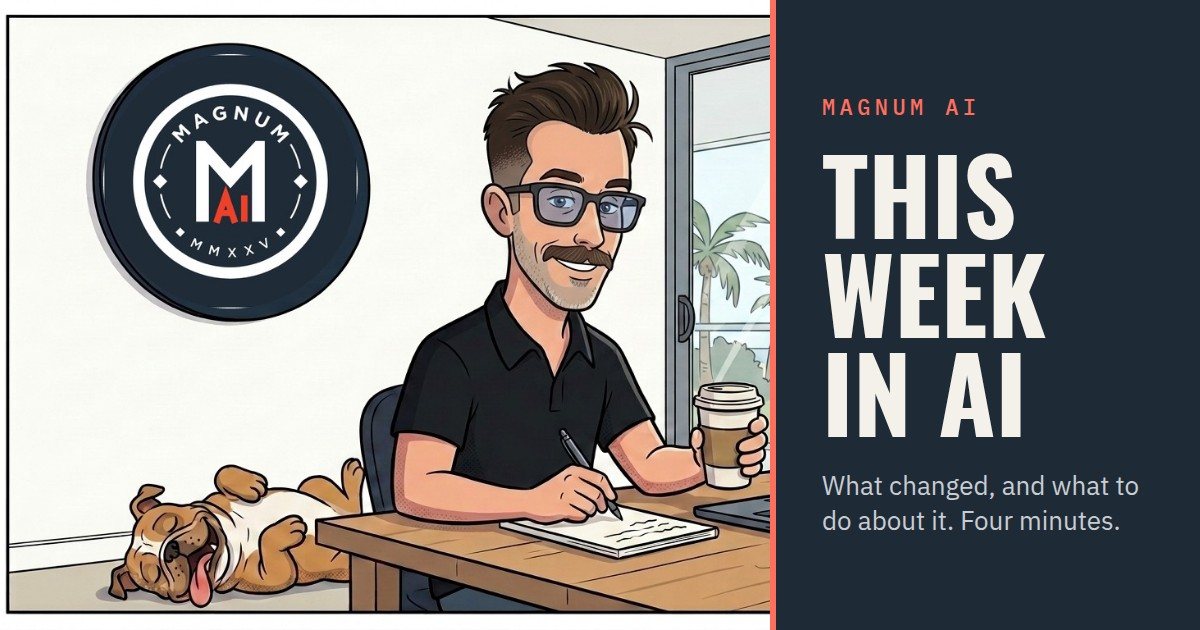
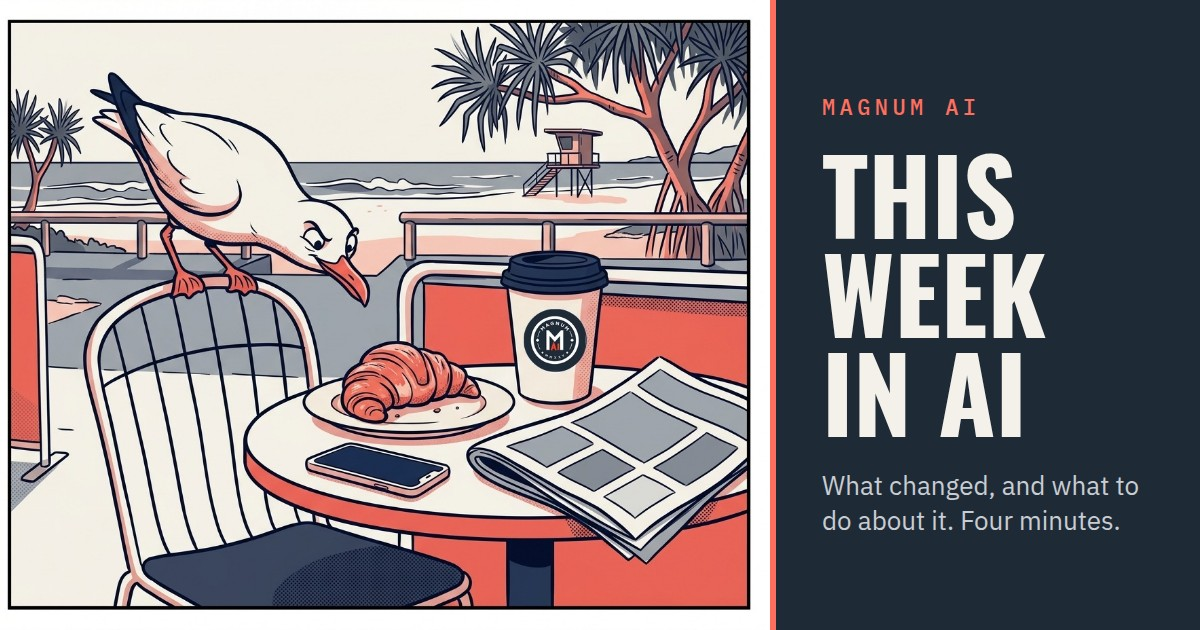
Preview card: cartoon still life with the Magnum badge, not James
Claude-Session: https://claude.ai/code/session_01D7btmxS42CJDTZ8XWTTJ4H

diff --git a/ROUTINE.md b/ROUTINE.md
@@ -22,8 +22,10 @@ The hero illustration and the WhatsApp preview are standing images in
 hero is `hero-cartoon.jpg`: James at his desk with his bulldog, in the
 members area cartoon style, drawn from his own photos, with the delivered
 Magnum badge on the wall. The builder uses it by default. The preview,
-`preview.jpg`, is the same cartoon with the title on a navy panel; it
-replaced the gold robot card the same day. Editions up to 11 October keep
+`preview.jpg`, is a cartoon still life (a seagull eyeing a croissant at a
+beach café table, the Magnum badge on the coffee cup) with the title on a
+navy panel. It replaced the gold robot card the same day; James said a
+picture of himself on every share was indulgent. Editions up to 11 October keep
 `hero.png`.
 
 The Drive folder is **This Week in AI**, id `1SMk0PwWdx_HYyQDgKXwXvOY_kp4lJBaL`,
